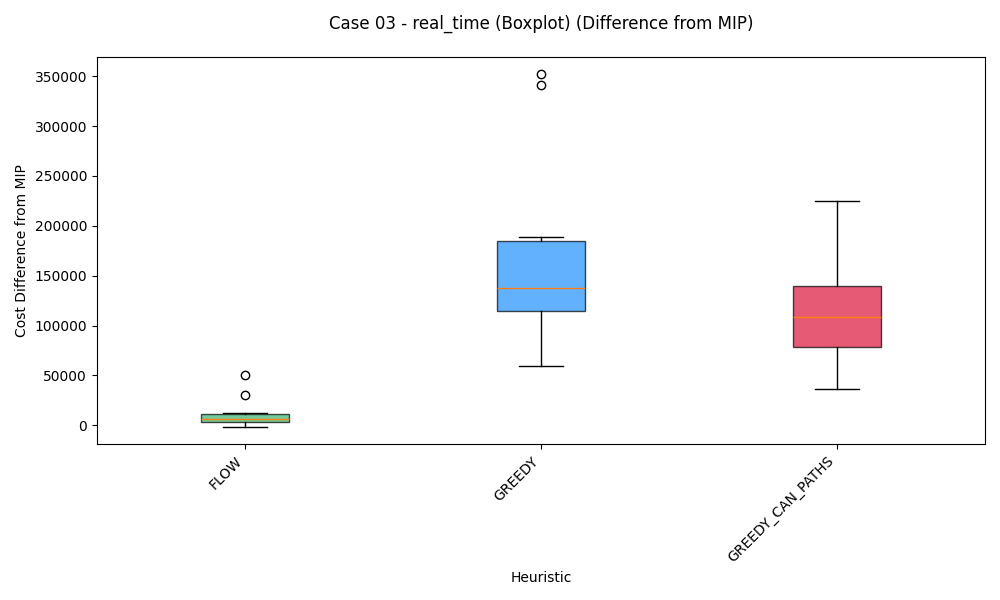
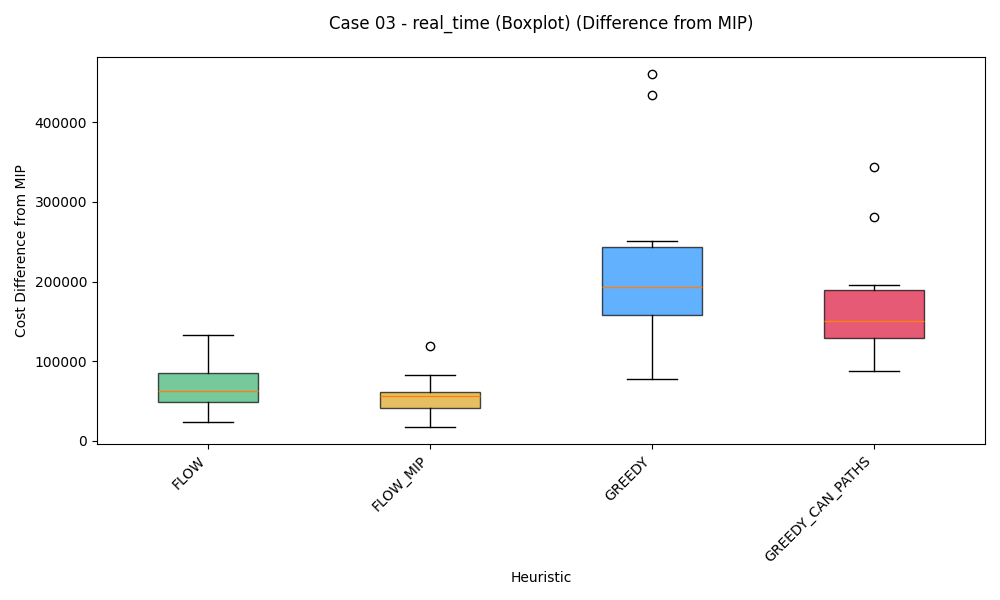
Fix diff_from_mip boxplots

diff --git a/scripts/plot.py b/scripts/plot.py
@@ -227,7 +227,7 @@ def create_boxplots(file_ending: str, subtract_mip: bool = False):
     all_heuristics = sorted(all_heuristics)
 
     # If subtract_mip is True, filter out FLOW_MIP from the display heuristics
-    display_heuristics = [h for h in all_heuristics if not (subtract_mip and h == 'FLOW_MIP')]
+    display_heuristics = [h for h in all_heuristics]
 
     for subfolder in SUBFOLDERS:
         dir_path = os.path.join(RESULTS_BASE_DIR, subfolder)
@@ -247,9 +247,24 @@ def create_boxplots(file_ending: str, subtract_mip: bool = False):
         for case, case_files in cases.items():
             plt.figure(figsize=(10, 6))
 
+            # Load deterministic FLOW_MIP solution for subtraction
+            deterministic_mip_data = {}
+            if subtract_mip:
+                det_dir = os.path.join(RESULTS_BASE_DIR, 'deterministic')
+                det_files = [f for f in os.listdir(det_dir) if f.endswith(file_ending) and 'FLOW_MIP' in f]
+                for det_file in det_files:
+                    det_case_match = CASE_PATTERN.search(det_file)
+                    if not det_case_match:
+                        continue
+                    det_case = det_case_match.group(1)
+                    realisations, values = read_data(os.path.join(det_dir, det_file))
+                    # Store as dict: case -> {realisation: value}
+                    deterministic_mip_data[det_case] = dict(zip(realisations, values))
+
             # Collect data for each heuristic
             heuristic_data = {}
             mip_data = {}  # Store MIP data separately for subtraction
+            real_time_mip_data = {}  # Store real_time FLOW_MIP for plotting
 
             for filename in case_files:
                 if file_ending == "_result.txt":
@@ -269,8 +284,18 @@ def create_boxplots(file_ending: str, subtract_mip: bool = False):
 
                 realisations, values = read_data(os.path.join(dir_path, filename))
 
+                if heuristic == 'FLOW_MIP':
+                    # Always store real_time MIP data for plotting (even if not subtracting)
+                    for real, val in zip(realisations, values):
+                        real_time_mip_data[real] = val
+                    # Also add to heuristic_data as 'FLOW_MIP' for real_time plots
+                    if subfolder == 'real_time':
+                        if 'FLOW_MIP' not in heuristic_data:
+                            heuristic_data['FLOW_MIP'] = {}
+                        for real, val in zip(realisations, values):
+                            heuristic_data['FLOW_MIP'][real] = val
                 if subtract_mip and heuristic == 'FLOW_MIP':
-                    # Store MIP data indexed by realization for subtraction
+                    # Store MIP data indexed by realization for subtraction (real_time)
                     for real, val in zip(realisations, values):
                         mip_data[real] = val
                 else:
@@ -280,15 +305,25 @@ def create_boxplots(file_ending: str, subtract_mip: bool = False):
                     for real, val in zip(realisations, values):
                         heuristic_data[heuristic][real] = val
 
-            # If subtract_mip is True, subtract MIP values from other heuristics
-            if subtract_mip and mip_data:
+            # If subtract_mip is True, subtract deterministic MIP values from other heuristics
+            if subtract_mip and deterministic_mip_data.get(case):
+                det_mip_case_data = deterministic_mip_data[case]
                 for heuristic in heuristic_data:
                     for real in list(heuristic_data[heuristic].keys()):
-                        if real in mip_data:
-                            heuristic_data[heuristic][real] -= mip_data[real]
+                        if real in det_mip_case_data:
+                            heuristic_data[heuristic][real] -= det_mip_case_data[real]
                         else:
-                            # Remove data points where MIP solution is not available
                             del heuristic_data[heuristic][real]
+                # For real_time FLOW_MIP, store difference as well
+                if real_time_mip_data:
+                    heuristic_data['FLOW_MIP_REAL_TIME'] = {}
+                    for real, val in real_time_mip_data.items():
+                        if real in det_mip_case_data:
+                            heuristic_data['FLOW_MIP_REAL_TIME'][real] = val - det_mip_case_data[real]
+            else:
+                # If not subtracting, just add real_time FLOW_MIP as a heuristic
+                if real_time_mip_data:
+                    heuristic_data['FLOW_MIP_REAL_TIME'] = real_time_mip_data
 
             # Convert to lists for boxplot
             final_heuristic_data = {}
